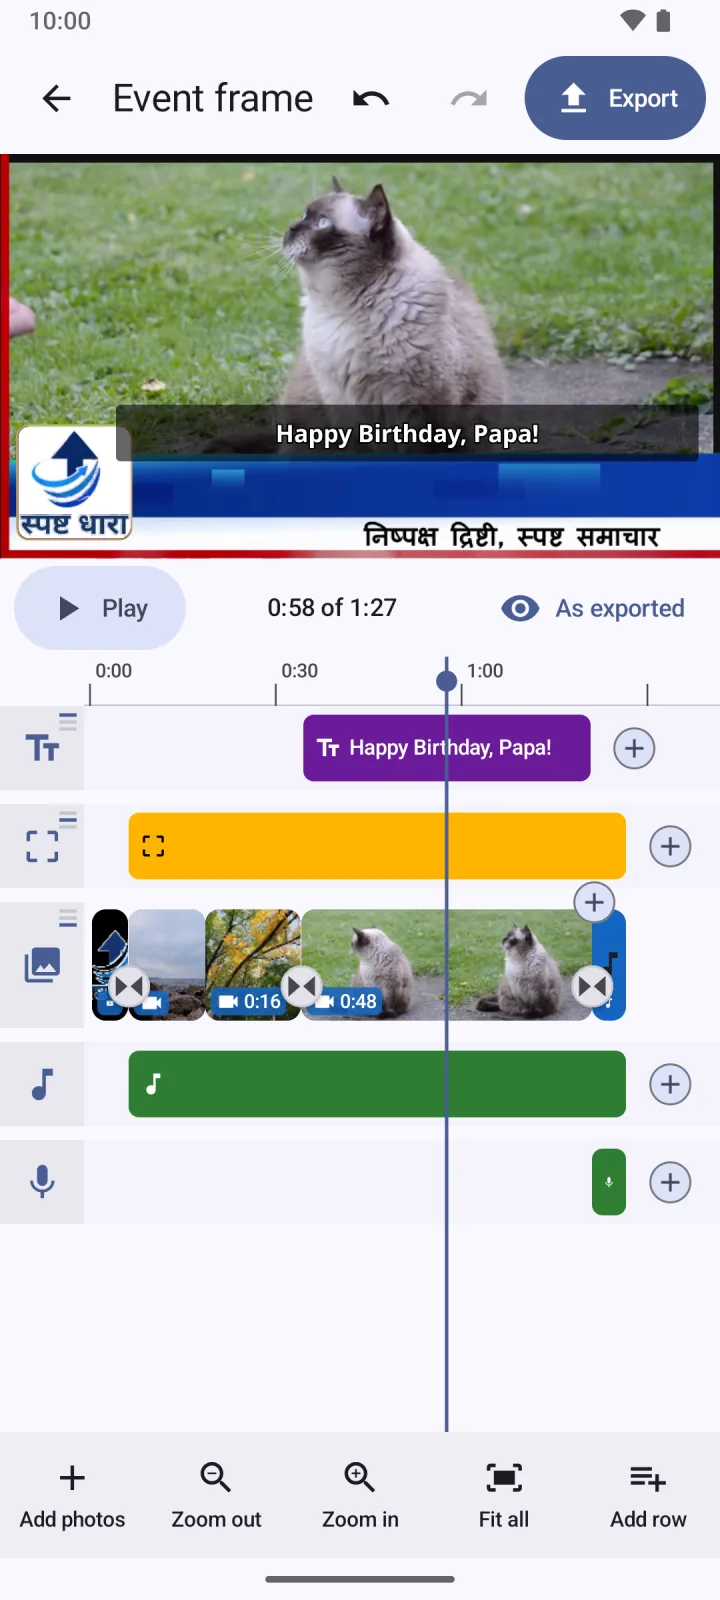
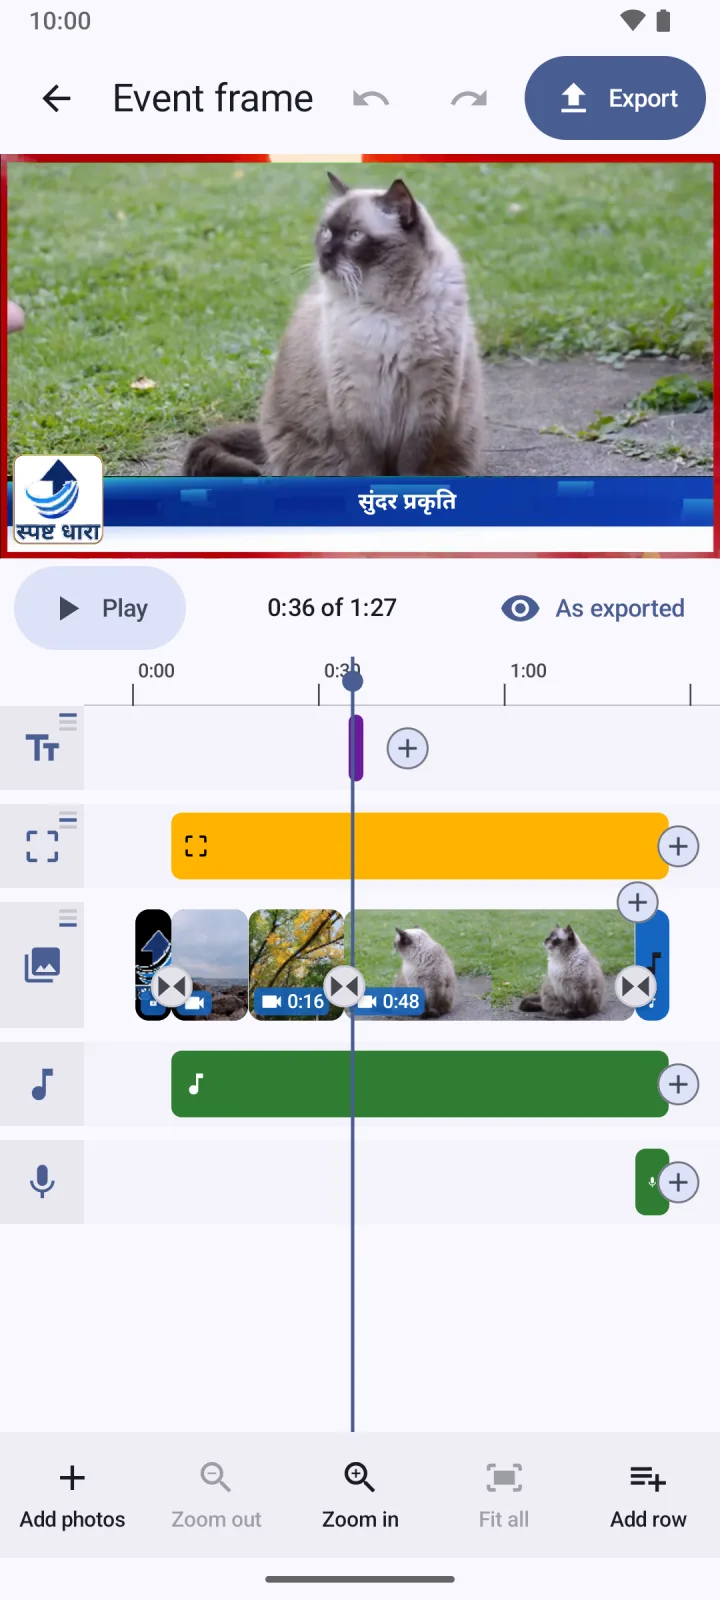
docs: Refresh screenshots for preset editing
Retake every README and website screenshot on current main, now that
presets can be made, edited and deleted. The new set follows one short
video made from three clips with the Event frame preset, with the
caption on the frame's blue strip.

Add four shots: making a preset, editing a preset, setting its caption
style, and the editor zoomed in on the caption. Mention preset editing
in the feature text and the checklist, and say the shots come from
main rather than 0.0.1. The release, tag and download links are
unchanged.

diff --git a/site/index.html b/site/index.html
@@ -177,9 +177,9 @@ footer a{color:var(--muted)}
     </div>
     <div class="phone-col">
       <div class="phone">
-        <div class="screen"><img src="screenshots/editor.webp" width="720" height="1600" alt="The ClearMovie editor: a video inside the event frame with the caption Happy Birthday, Papa!, and the timeline below with text, frame, photos and videos, music and voice rows"></div>
+        <div class="screen"><img src="screenshots/editor.webp" width="720" height="1600" alt="The ClearMovie editor: a video inside the event frame with the caption सुंदर प्रकृति in white on its blue strip, and the timeline below with text, frame, photos and videos, music and voice rows"></div>
       </div>
-      <span class="label">The editor in ClearMovie 0.0.1</span>
+      <span class="label">The editor, from main (coming in 0.0.2)</span>
     </div>
   </div>
   <div class="marquee" role="region" aria-label="Highlights">
@@ -203,16 +203,20 @@ footer a{color:var(--muted)}
 <section id="screenshots" class="alt">
   <div class="wrap">
     <h2>See it in action</h2>
-    <p class="sub">Real screens from ClearMovie 0.0.1, making a birthday video from three short clips with the Event frame preset.</p>
+    <p class="sub">Real screens from ClearMovie on main (what will become 0.0.2), making a short video from three clips with the Event frame preset and its caption.</p>
     <div class="shots">
-      <figure><img src="screenshots/home.webp" width="720" height="1600" loading="lazy" alt="The home screen: Make a new video with the Event frame preset ready, or Start without a preset"><figcaption>Pick a preset<small>or start without one</small></figcaption></figure>
+      <figure><img src="screenshots/home.webp" width="720" height="1600" loading="lazy" alt="The home screen: the Event frame preset ready with an Edit button, Start without a preset, New preset, and the video under My videos"><figcaption>Pick a preset<small>or start without one</small></figcaption></figure>
       <figure><img src="screenshots/preset-review.webp" width="720" height="1600" loading="lazy" alt="What this preset adds: the intro and frame cards, each with Play, Replace and Skip for this video, and a Next button"><figcaption>Check the preset<small>replace or skip any part</small></figcaption></figure>
       <figure><img src="screenshots/media-pick.webp" width="720" height="1600" loading="lazy" alt="The Android photo picker with three videos selected and an Add (3) button"><figcaption>Add photos and videos<small>with Android's own picker</small></figcaption></figure>
-      <figure><img src="screenshots/editor.webp" width="720" height="1600" loading="lazy" alt="The editor: the preview inside the frame and a timeline with text, frame, photos and videos, music and voice rows"><figcaption>Arrange the timeline<small>every row in view</small></figcaption></figure>
+      <figure><img src="screenshots/editor.webp" width="720" height="1600" loading="lazy" alt="The editor: the caption on the frame's blue strip in the preview, and a timeline with text, frame, photos and videos, music and voice rows"><figcaption>Arrange the timeline<small>every row in view</small></figcaption></figure>
       <figure><img src="screenshots/caption.webp" width="720" height="1600" loading="lazy" alt="The caption editor on the Font tab: Plain, Bold, Classic and Classic bold, each showing English and Hindi letters"><figcaption>Add a caption<small>Hindi and English fonts</small></figcaption></figure>
-      <figure><img src="screenshots/transitions.webp" width="720" height="1600" loading="lazy" alt="The transition picker with small moving previews for crossfade, fades and wipes"><figcaption>Choose a transition<small>each with a preview</small></figcaption></figure>
+      <figure><img src="screenshots/transitions.webp" width="720" height="1600" loading="lazy" alt="The transition picker with a small preview of each fade and wipe, with Wipe Left chosen"><figcaption>Choose a transition<small>each with a preview</small></figcaption></figure>
       <figure><img src="screenshots/export.webp" width="720" height="1600" loading="lazy" alt="Save your video: Best, Good (suggested) or Small, each with its size"><figcaption>Choose a size<small>Best, Good or Small</small></figcaption></figure>
       <figure><img src="screenshots/export-done.webp" width="720" height="1600" loading="lazy" alt="Your video is ready: saved in the ClearMovie album, with Share and Play buttons"><figcaption>Share it<small>saved to your gallery</small></figcaption></figure>
+      <figure><img src="screenshots/preset-create.webp" width="720" height="1600" loading="lazy" alt="New preset: a name, intro and frame switches, and the kind of ending: a spoken message, a video or none"><figcaption>Make a preset<small>name it, pick its parts</small></figcaption></figure>
+      <figure><img src="screenshots/preset-edit.webp" width="720" height="1600" loading="lazy" alt="Edit preset, scrolled down: a preview of its caption on the frame, its intro, frame and ending files, and Save"><figcaption>Edit a preset<small>from Home or Settings</small></figcaption></figure>
+      <figure><img src="screenshots/preset-caption-style.webp" width="720" height="1600" loading="lazy" alt="Change caption style on the Colour tab: white words, with switches for an outline and a band behind the words"><figcaption>Set its caption style<small>words, place, size, font, colour</small></figcaption></figure>
+      <figure><img src="screenshots/editor-caption.webp" width="720" height="1600" loading="lazy" alt="The caption selected in the editor: white on the frame's blue strip, with Edit text, Animation, Earlier, Later, Other row and Delete below"><figcaption>The caption, selected<small>it starts in the preset's style</small></figcaption></figure>
       <figure><img src="screenshots/editor-dark.webp" width="720" height="1600" loading="lazy" alt="The editor in the dark theme"><figcaption>Dark theme<small>follows your phone</small></figcaption></figure>
       <figure><img src="screenshots/editor-hindi.webp" width="720" height="1600" loading="lazy" alt="The editor in Hindi"><figcaption>In Hindi<small>also English and Hinglish</small></figcaption></figure>
       <figure class="wide"><img src="screenshots/editor-landscape.webp" width="1600" height="720" loading="lazy" alt="The editor held sideways: the preview on the left and the timeline on the right"><figcaption>Sideways too<small>the preview sits beside the timeline</small></figcaption></figure>
@@ -225,7 +229,7 @@ footer a{color:var(--muted)}
     <h2>Everything an event video needs</h2>
     <p class="sub">The features are chosen for one job: turning the photos and videos from a day into a video you can share. Every button has a label, and nothing is hidden behind jargon.</p>
     <div class="grid">
-      <div class="card"><div class="icon"><svg aria-hidden="true"><use href="#i-layers"/></svg></div><h3>Presets</h3><p>An intro, a green-screen frame overlay that runs across the whole video, and an ending, set up once and reused with one tap. You can replace or skip any part for a single video.</p></div>
+      <div class="card"><div class="icon"><svg aria-hidden="true"><use href="#i-layers"/></svg></div><h3>Presets</h3><p>An intro, a green-screen frame overlay that runs across the whole video, and an ending, set up once and reused with one tap. You can replace or skip any part for a single video. From the next release you can also make your own presets, edit any preset, delete the ones you made or reset a built-in one, and give each one a caption style.</p></div>
       <div class="card"><div class="icon"><svg aria-hidden="true"><use href="#i-share"/></svg></div><h3>Share from your gallery</h3><p>Select photos and videos in your gallery, tap Share, then choose ClearMovie. They land on the timeline in the order they were taken.</p></div>
       <div class="card"><div class="icon"><svg aria-hidden="true"><use href="#i-timeline"/></svg></div><h3>A timeline that stays simple</h3><p>Photos and videos on one row, plus as many text, music, voice, picture-in-picture and frame rows as you need. Pinch to zoom, tap “+” to add something exactly where you want it, and edit from a toolbar of big, labelled buttons.</p></div>
       <div class="card"><div class="icon"><svg aria-hidden="true"><use href="#i-text"/></svg></div><h3>Captions in Hindi &amp; English</h3><p>Captions start in the preset's spot, font and size. Drag them, resize them, recolour them, or tap Reset. Devanagari fonts are built in.</p></div>

diff --git a/README.md b/README.md
@@ -49,16 +49,20 @@ later will not match it. ClearMovie needs Android 10 or newer.
 
 ## Screenshots
 
-ClearMovie 0.0.1 on an Android 16 emulator, making a birthday video from three short
-clips with the Event frame preset.
+ClearMovie from `main` (what will become 0.0.2) on an Android 16 emulator, making a
+short video from three clips with the Event frame preset and its caption.
 
 | Pick a preset | Check the preset | Add photos and videos | Arrange the timeline |
 | :---: | :---: | :---: | :---: |
-| ![Home screen with the Event frame preset ready](site/screenshots/home.webp) | ![What this preset adds: the intro and frame, each with Play, Replace and Skip](site/screenshots/preset-review.webp) | ![The Android photo picker with three videos selected](site/screenshots/media-pick.webp) | ![The editor with the preview and every row of the timeline](site/screenshots/editor.webp) |
+| ![Home screen: the Event frame preset ready with an Edit button, Start without a preset, New preset, and the video under My videos](site/screenshots/home.webp) | ![What this preset adds: the intro and frame, each with Play, Replace and Skip](site/screenshots/preset-review.webp) | ![The Android photo picker with three videos selected](site/screenshots/media-pick.webp) | ![The editor: the caption on the frame's blue strip, and every row of the timeline](site/screenshots/editor.webp) |
 
 | Add a caption | Choose a transition | Choose a size | Share it |
 | :---: | :---: | :---: | :---: |
-| ![Caption editor, Font tab with English and Hindi letters](site/screenshots/caption.webp) | ![Transition picker with previews](site/screenshots/transitions.webp) | ![Save your video: Best, Good or Small](site/screenshots/export.webp) | ![Your video is ready, with Share and Play](site/screenshots/export-done.webp) |
+| ![Caption editor, Font tab with English and Hindi letters](site/screenshots/caption.webp) | ![Transition picker with previews, Wipe Left chosen](site/screenshots/transitions.webp) | ![Save your video: Best, Good or Small](site/screenshots/export.webp) | ![Your video is ready, with Share and Play](site/screenshots/export-done.webp) |
+
+| Make a preset | Edit a preset | Set its caption style | The caption, selected |
+| :---: | :---: | :---: | :---: |
+| ![New preset: a name, intro and frame switches, and the kind of ending](site/screenshots/preset-create.webp) | ![Edit preset, scrolled down: a preview of its caption, its files and Save](site/screenshots/preset-edit.webp) | ![Change caption style, Colour tab: white words, no outline, no band](site/screenshots/preset-caption-style.webp) | ![The caption selected in the editor: white on the frame's blue strip, with Edit text, Animation, Earlier, Later, Other row and Delete below](site/screenshots/editor-caption.webp) |
 
 <table>
   <tr><th>Dark theme</th><th>In Hindi</th><th colspan="2">Sideways too</th></tr>
@@ -71,11 +75,15 @@ clips with the Event frame preset.
 
 ## Features
 
-In ClearMovie 0.0.1:
+In ClearMovie 0.0.1, plus one addition already on `main` for 0.0.2:
 
 - **Presets** - one tap sets up the intro, the frame overlay (with its green window
   keyed out so your photos and videos show through) and the ending, which can be a
   video or a closing voice clip. You can replace any part for a single video, or skip it.
+- **Your own presets** (new on `main`, coming in 0.0.2) - make a new preset from Home, edit
+  any preset from Home or Settings, delete the ones you made, or reset a built-in one. Each
+  preset keeps a caption style (words, place, size, font, colour, outline and band) that new
+  captions start from, with a live preview.
 - **Share from your gallery** - select photos and videos in the gallery, tap Share, and
   choose ClearMovie. They open on the timeline in the order they were taken.
 - **A timeline that stays simple** - photos and videos on one row you reorder by dragging,
@@ -110,6 +118,7 @@ What has shipped, and what is still to come:
 - [x] Preset picker, with "Start without a preset"
 - [x] One-time preset setup (choose the intro, frame and ending files on your phone) with a friendly repair screen if a file goes missing
 - [x] Preset review: replace or skip the intro, frame or ending for this video
+- [x] Make your own presets, edit any preset and delete the ones you made, each with its own caption style (done on `main`, ships in 0.0.2)
 - [x] Add photos and videos with the system photo picker
 - [x] Share photos and videos from the gallery straight into a new video
 
